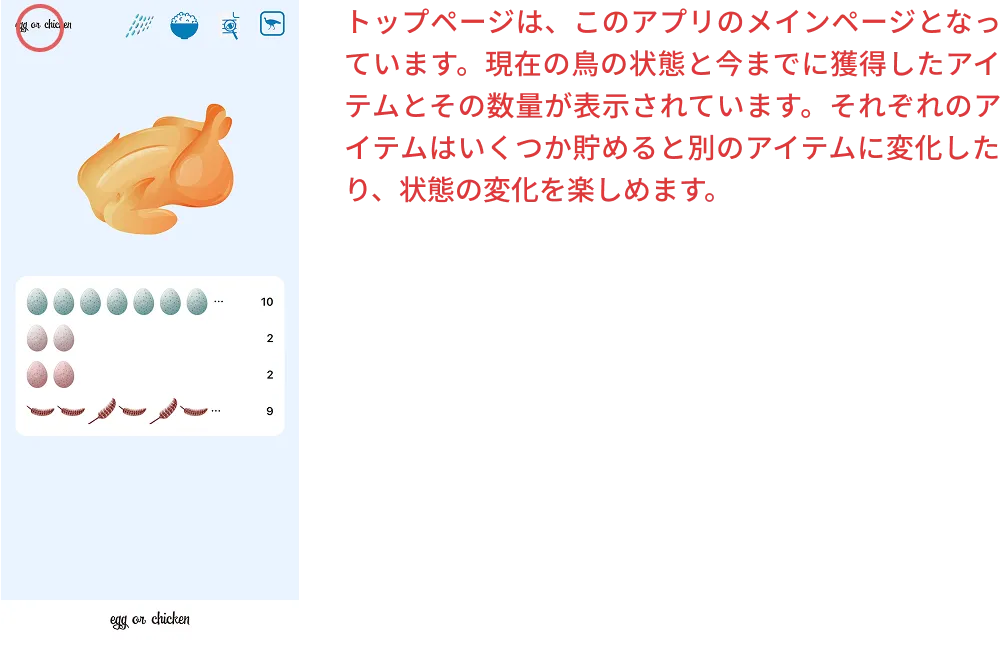
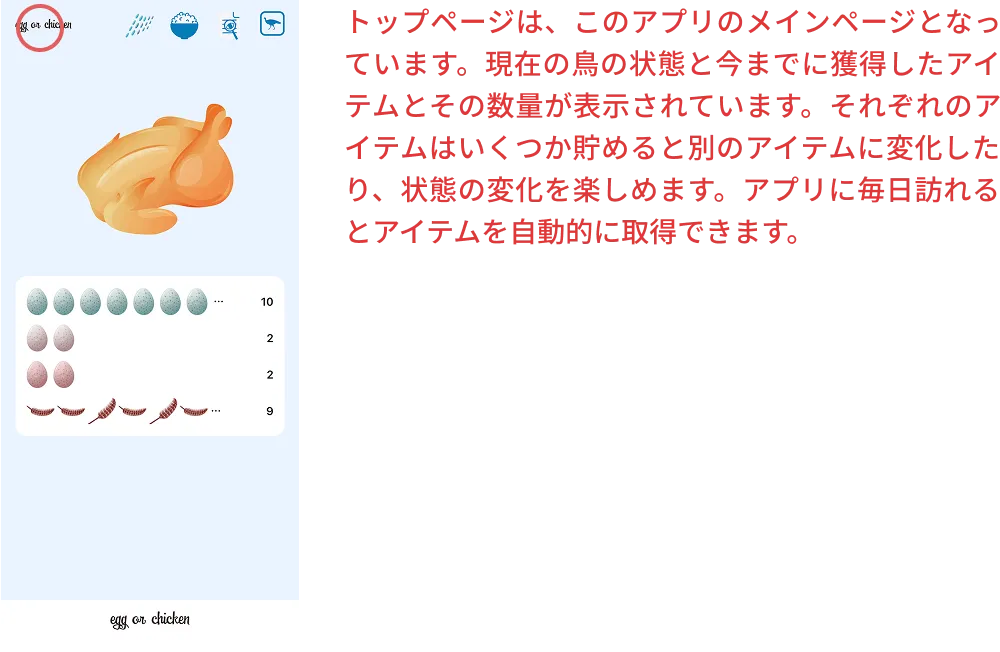
7.7.06

Changed region(s): [[0.341, 0.3374, 0.806, 0.3988], [0.403, 0.2761, 0.713, 0.3067], [0.744, 0.2761, 1.0, 0.3067]]

diff --git a/README.md b/README.md
@@ -77,7 +77,7 @@ https://egg-or-chicken.vercel.app
 <p align="center">
   <img src="https://raw.githubusercontent.com/Asami222/egg-or-chicken/main/public/git/weather-area.webp" width="500" style="max-width: 100%;" />
 </p>
-<h3 align="center">使い方ページ</h3>
+<h3 align="center">毎日訪れてアイテムを獲得</h3>
 <p align="center">
   <img src="https://raw.githubusercontent.com/Asami222/egg-or-chicken/main/public/git/home-area.webp" width="500" style="max-width: 100%;" />
 </p>
